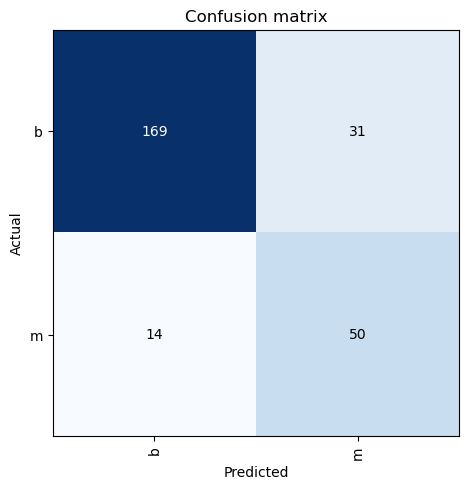
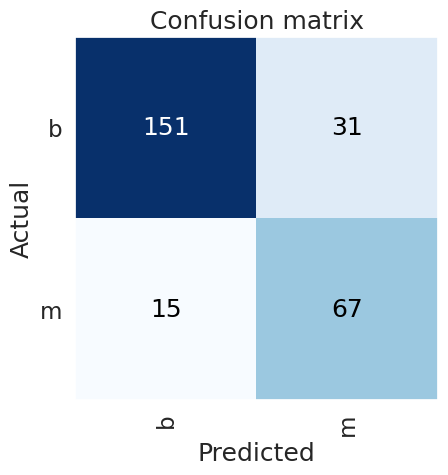
Paper edits

diff --git a/paper/paper.md b/paper/paper.md
@@ -20,7 +20,7 @@ affiliations:
    index: 1
  - name: Mohn Medical Imaging and Visualization Centre, Department of Radiology, Haukeland University Hospital, Bergen, Norway
    index: 2
-date: January 2023
+date: February 2023
 bibliography: paper.bib
 ---
 [![Google Colab](https://colab.research.google.com/assets/colab-badge.svg)](https://colab.research.google.com/github/MMIV-ML/fastMONAI/blob/master/paper/paper.ipynb)
@@ -157,10 +157,10 @@ learn.fit_one_cycle(4)
 
 | epoch | train_loss | valid_loss | accuracy |  time |
 |------:|-----------:|-----------:|---------:|------:|
-|     0 |   0.572278 |   0.569417 | 0.731061 | 00:02 |
-|     1 |   0.520406 |   0.538216 | 0.821970 | 00:02 |
-|     2 |   0.484035 |   0.524431 | 0.825758 | 00:02 |
-|     3 |   0.447109 |   0.494531 | 0.818182 | 00:02 |
+|     0 |   0.568710 |   0.464355 | 0.780303 | 00:02 |
+|     1 |   0.532495 |   0.512985 | 0.818182 | 00:02 |
+|     2 |   0.480088 |   0.471735 | 0.829545 | 00:02 |
+|     3 |   0.438136 |   0.436847 | 0.825758 | 00:02 |
 
 **Note:** Small random variations are involved in training CNN models. Hence, when running the notebook, you may see different results.
 
@@ -184,7 +184,7 @@ interp = ClassificationInterpretation.from_learner(learn)
 interp.plot_confusion_matrix()
 ```
 
-![](paper_files/output_44_2.png){ width=30% }
+![](paper_files/output_42_2.png){ width=30% }
 
 Here are the two instances our model was most confused about (in other words, most confident but wrong):
 
@@ -202,7 +202,8 @@ Test-time augmentation (TTA) is a technique where you apply data augmentation tr
 preds, targs = learn.tta(n=4); 
 print(accuracy(preds, targs))
 ```
-    TensorBase(0.8258)
+
+    TensorBase(0.8371)
 
 ## Semantic segmentation
 
@@ -231,9 +232,9 @@ print(data_info_df.head().to_markdown())
 
 ```
 
-| dim_0 | dim_1 | dim_2 | voxel_0 | voxel_1 | voxel_2 | orientation | example_path |                                               total |     |
-|------:|------:|------:|--------:|--------:|--------:|------------:|-------------:|----------------------------------------------------:|-----|
-|    44 |    55 |    83 |    4.13 |    3.95 |    2.18 |        RAS+ |         RAS+ | ../data/IXI002_image.nii.gz | 566 |
+|   | dim0 | dim1 | dim2 |  vx0 |  vx1 |  vx2 | orient |       example_path | total |
+|--:|-----:|-----:|-----:|-----:|-----:|-----:|-------:|-------------------:|------:|
+| 0 |   44 |   55 |   83 | 4.13 | 3.95 | 2.18 |   RAS+ | ../data/..IXI002.. |   566 |
 
 ```python
 resample, reorder = med_dataset.suggestion()
